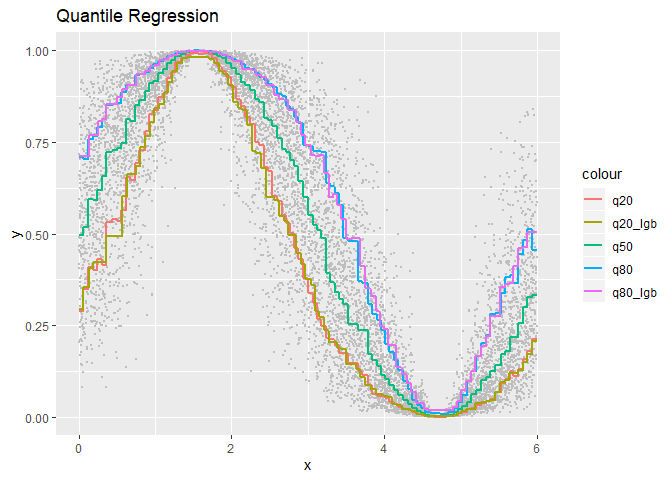
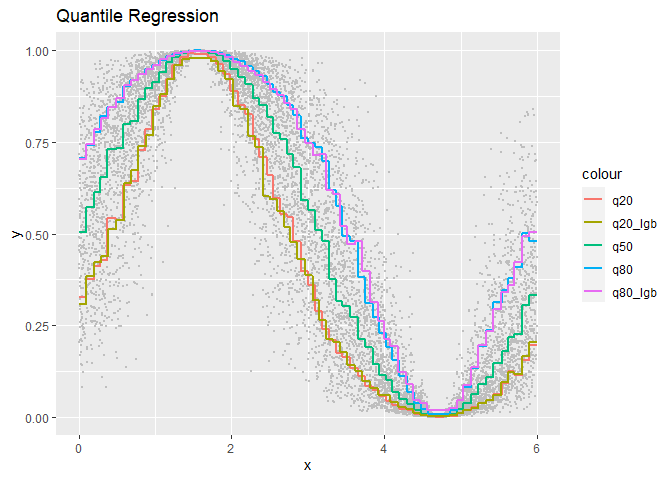
up

diff --git a/README.md b/README.md
@@ -29,6 +29,7 @@ installed from REPL: `] add EvoTrees`. Then, install EvoTrees R package:
   - nbins: integer \[2,250\] default=250
   - metric: {“mse”, “rmse”, “mae”, “logloss”, “mlogloss”, “poisson”,
     “quantile”, “gaussian”}, default=“none”
+  - device: {“cpu”, “gpu”}
 
 # Getting started
 
@@ -38,28 +39,32 @@ installed from REPL: `] add EvoTrees`. Then, install EvoTrees R package:
 set.seed(1234)
 x <- runif(10000, -6, 6)
 y <- sin(x) * 0.5 + 0.5
-y <- log(y/(1-y)) + rnorm(length(y))
+y <- log(y/(1 - y)) + rnorm(length(y))
 y <- 1 / (1 + exp(-y))
 data_train <- matrix(x)
 target_train <- y
-
+weights_train <- y
+  
 # linear regression
-params <- list(loss = "linear", nrounds = 200, eta = 0.05, lambda = 0.5, gamma = 0.5, max_depth = 5, min_weight = 1, rowsample = 0.5, colsample = 1, metric = "mse")
+params <- list(loss = "linear", nrounds = 200, eta = 0.05, lambda = 0.1, gamma = 0.1, max_depth = 5, min_weight = 1, rowsample = 0.5, colsample = 1, nbins = 64, metric = "mse")
 model <- evo_train(data_train = data_train, target_train = target_train, params = params)
 pred_linear <- predict(model = model, data = data_train)
 
+model <- evo_train(data_train = data_train, target_train = target_train, weights_train = weights_train, params = params)
+pred_linear_w <- predict(model = model, data = data_train)
+
 # logistic / cross-engtropy regression
-params <- list(loss = "logistic", nrounds = 200, eta = 0.05, lambda = 0.5, gamma = 0.5, max_depth = 5, min_weight = 1, rowsample = 0.5, colsample = 1, metric = "logloss")
+params <- list(loss = "logistic", nrounds = 200, eta = 0.05, lambda = 0.1, gamma = 0.1, max_depth = 5, min_weight = 1, rowsample = 0.5, colsample = 1, nbins = 64, metric = "logloss")
 model <- evo_train(data_train = data_train, target_train = target_train, params = params)
 pred_logistic <- predict(model = model, data = data_train)
 
 # poisson regression
-params <- list(loss = "poisson", nrounds = 200, eta = 0.05, lambda = 0.5, gamma = 0.5, max_depth = 5, min_weight = 1, rowsample = 0.5, colsample = 1)
+params <- list(loss = "poisson", nrounds = 200, eta = 0.05, lambda = 0.1, gamma = 0.1, max_depth = 5, min_weight = 1, rowsample = 0.5, colsample = 1, nbins = 64, metric = "poisson")
 model <- evo_train(data_train = data_train, target_train = target_train, params = params)
 pred_poisson <- predict(model = model, data = data_train)
 
 # xgboost reference
-params <- list(max_depth = 4, eta = 0.05, subsample = 0.5, colsample_bytree = 1.0, min_child_weight = 1, lambda = 1, alpha = 0, gamma = 1.0, tree_method = "exact", objective = "reg:linear", eval_metric = "rmse")
+params <- list(max_depth = 4, eta = 0.05, subsample = 0.5, colsample_bytree = 1.0, min_child_weight = 1, lambda = 0.1, alpha = 0, gamma = 0.1, max_bin = 64, tree_method = "hist", objective = "reg:squarederror", eval_metric = "rmse")
 xgb_train <- xgb.DMatrix(data = data_train, label = target_train)
 model <- xgb.train(data = xgb_train, params = params, nrounds = 200, verbose = 1, print_every_n = 10L, early_stopping_rounds = NULL)
 pred_xgb <- predict(model, xgb_train)
@@ -73,35 +78,35 @@ pred_xgb <- predict(model, xgb_train)
 set.seed(1234)
 x <- runif(10000, 0, 6)
 y <- sin(x) * 0.5 + 0.5
-y <- log(y/(1-y)) + rnorm(length(y))
+y <- log(y/(1 - y)) + rnorm(length(y))
 y <- 1 / (1 + exp(-y))
 data_train <- matrix(x)
 target_train <- y
 
 # quantile regression - q50
-params <- list(loss = "quantile", alpha=0.5, nrounds = 200, eta = 0.05, nbins=100, lambda = 0.2, gamma = 0.0, max_depth = 4, min_weight = 1, rowsample = 0.5, colsample = 1)
+params <- list(loss = "quantile", alpha = 0.5, nrounds = 200, eta = 0.05, nbins = 64, lambda = 0.2, gamma = 0.0, max_depth = 4, min_weight = 1, rowsample = 0.5, colsample = 1)
 model <- evo_train(data_train = data_train, target_train = target_train, params = params)
 pred_q50 <- predict(model = model, data = data_train)
 
 # quantile regression - q20
-params <- list(loss = "quantile", alpha=0.2, nrounds = 200, eta = 0.05, nbins=100, lambda = 0.2, gamma = 0.0, max_depth = 4, min_weight = 1, rowsample = 0.5, colsample = 1)
+params <- list(loss = "quantile", alpha = 0.2, nrounds = 200, eta = 0.05, nbins = 64, lambda = 0.2, gamma = 0.0, max_depth = 4, min_weight = 1, rowsample = 0.5, colsample = 1)
 model <- evo_train(data_train = data_train, target_train = target_train, params = params)
 pred_q20 <- predict(model = model, data = data_train)
 
 # quantile regression - q80
-params <- list(loss = "quantile", alpha=0.8, nrounds = 200, eta = 0.05, nbins=100, lambda = 0.2, gamma = 0.0, max_depth = 4, min_weight = 1, rowsample = 0.5, colsample = 1)
+params <- list(loss = "quantile", alpha = 0.8, nrounds = 200, eta = 0.05, nbins = 64, lambda = 0.2, gamma = 0.0, max_depth = 4, min_weight = 1, rowsample = 0.5, colsample = 1)
 model <- evo_train(data_train = data_train, target_train = target_train, params = params)
 pred_q80 <- predict(model = model, data = data_train)
 
 # lightgbm
-params <- list(objective = "quantile", alpha=0.2, eta = 0.05, max_bin=100, l1=0, l2=0.1, min_split_gain = 0.0, max_depth = 4, min_weight = 1, rowsample = 0.5, colsample = 1)
+params <- list(objective = "quantile", alpha = 0.2, eta = 0.05, max_bin = 64, lambda_l1 = 0, lambda_l2 = 0.1, min_split_gain = 0.0, max_depth = 4, min_data_in_leaf = 1, subsample = 0.5, subsample_freq = 1, feature_fraction = 1)
 dtrain <- lgb.Dataset(data = data_train, label = target_train, free_raw_data = FALSE)
-model <- lightgbm::lgb.train(params = params, data = dtrain, nrounds = 100)
+model <- lightgbm::lgb.train(params = params, data = dtrain, nrounds = 100, verbose = -1)
 pred_q20_lgb <- predict(model, data_train)
 
-params <- list(objective = "quantile", alpha=0.8, eta = 0.05, max_bin=100, l1=0, l2=0.1, min_split_gain = 0.0, max_depth = 4, min_weight = 1, rowsample = 0.5, colsample = 1)
+params <- list(objective = "quantile", alpha = 0.8, eta = 0.05, max_bin = 64, lambda_l1 = 0, lambda_l2 = 0.1, min_split_gain = 0.0, max_depth = 4, min_data_in_leaf = 1, subsample = 0.5, subsample_freq = 1, feature_fraction = 1)
 dtrain <- lgb.Dataset(data = data_train, label = target_train, free_raw_data = FALSE)
-model <- lightgbm::lgb.train(params = params, data = dtrain, nrounds = 100)
+model <- lightgbm::lgb.train(params = params, data = dtrain, nrounds = 100, verbose = -1)
 pred_q80_lgb <- predict(model, data_train)
 ```
 
